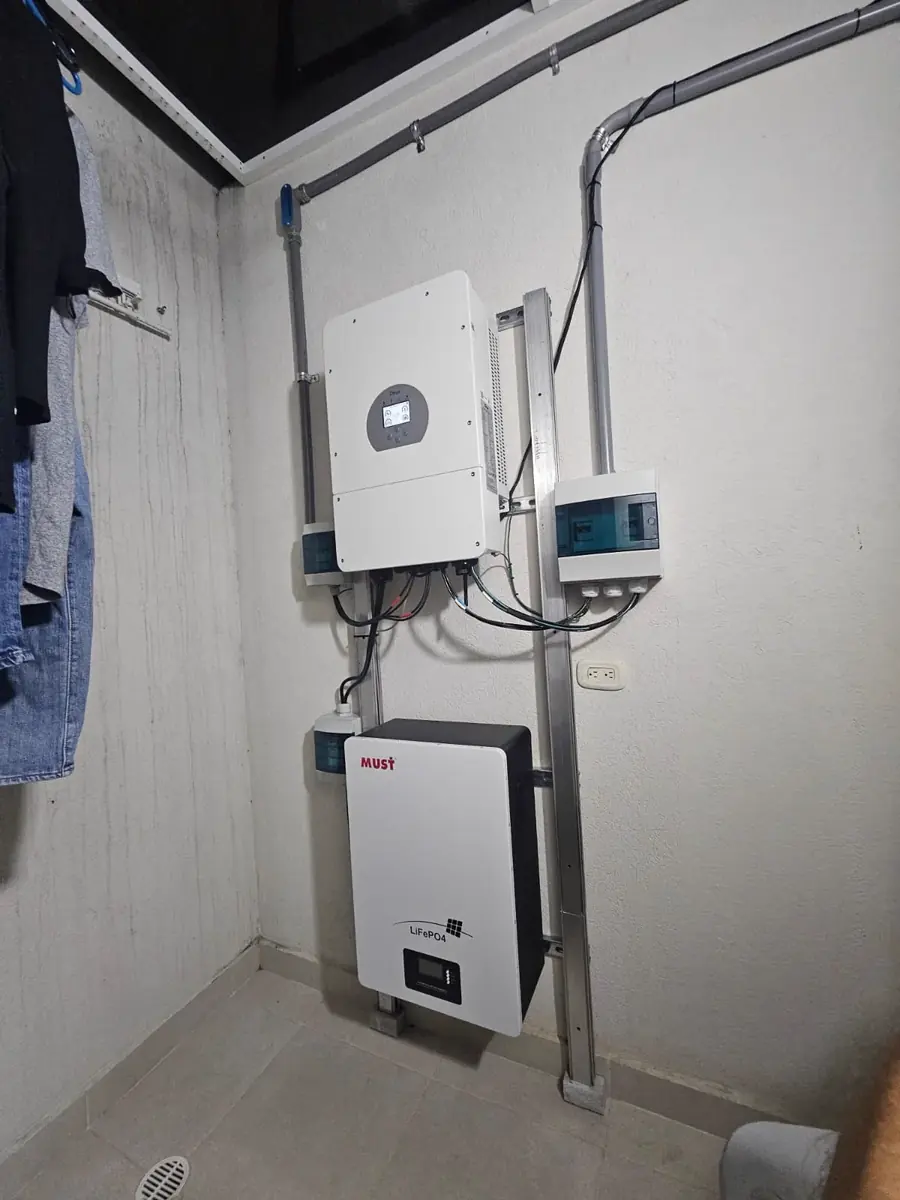
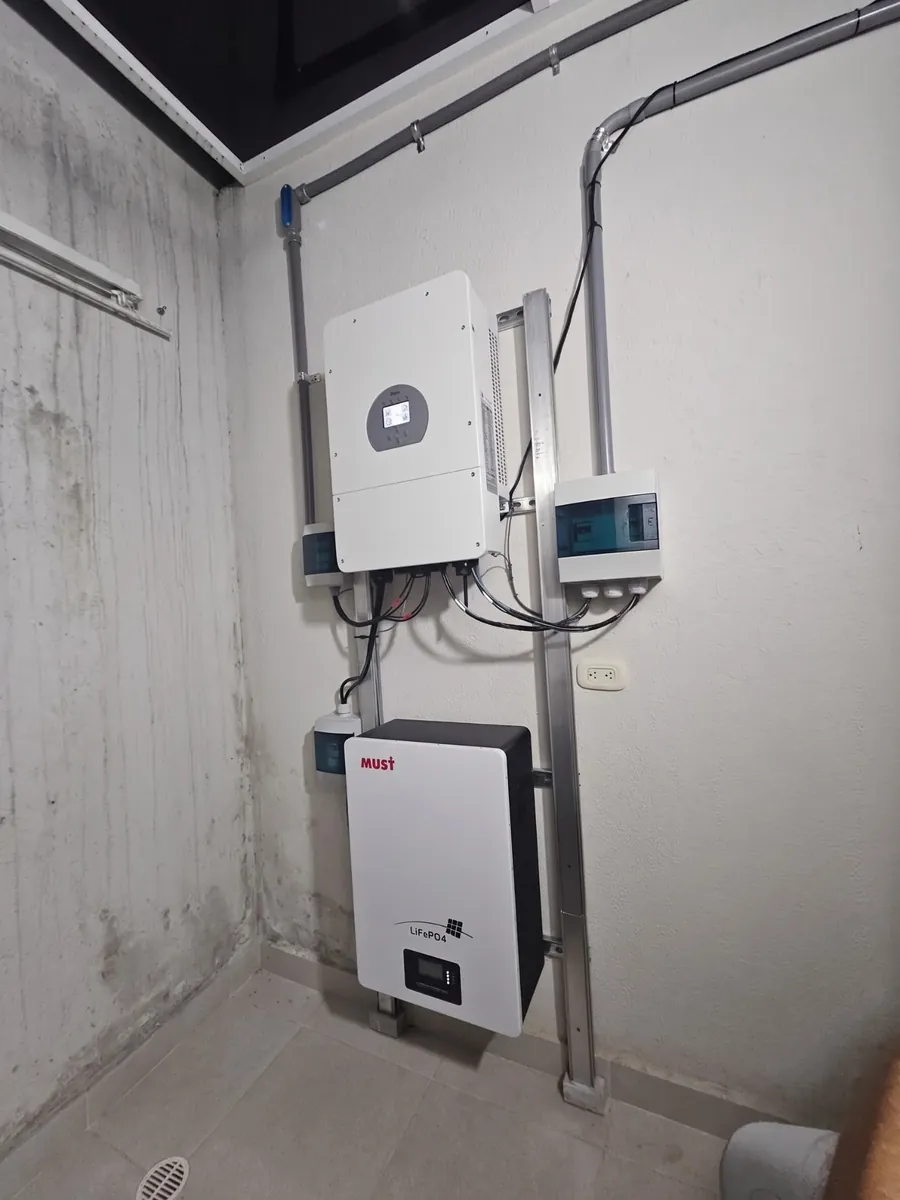
little changes in the landing (img, text, position)

diff --git a/src/data/contenido.js b/src/data/contenido.js
@@ -15,6 +15,7 @@ export const SERVICIOS_FORMULARIO = [
   'Mantenimiento',
   'Puntos de carga para vehículos eléctricos',
   'Trámites y beneficios tributarios',
+  'Venta de equipos para tu proyecto',
 ]
 
 /** Arma el mensaje de WhatsApp del formulario: solo usa lo que la persona escribió (ISO/IEC 27701, minimización de datos). */
@@ -128,12 +129,12 @@ export const pasos = [
 
 // Historia de la escena 3D: cada paso ocupa una parte del recorrido de scroll.
 export const historia = [
-  { icono: 'light_mode', titulo: 'Llega el sol', texto: 'La radiación solar cae sobre los módulos instalados en tu cubierta.' },
+  { icono: 'light_mode', titulo: 'Llega el sol', texto: 'La radiación solar incide sobre los módulos instalados en tu cubierta.' },
   { icono: 'solar_power', titulo: 'El panel la convierte', texto: 'Las celdas fotovoltaicas transforman la luz en electricidad.' },
   {
     icono: 'electrical_services',
     titulo: 'El inversor la adapta',
-    texto: 'El inversor deja la energía lista para los equipos de tu hogar, empresa o institución.',
+    texto: 'El inversor transforma la energía proveniente de los paneles para ser inyectada a los equipos de tu hogar, empresa o institución, y verter los excedentes a la red eléctrica.',
   },
   { icono: 'home', titulo: 'Tu casa se enciende', texto: 'Usas energía limpia y dependes menos de la red eléctrica.' },
 ]
@@ -197,10 +198,22 @@ export const cinta = [
   'Mantenimiento preventivo y correctivo',
 ]
 
-// Infografías de "Cómo funciona": [clave, pestaña, título, frase, foto, ancho, alto, alt]
+// Infografías de equipos (página Servicios), agrupadas en Fotovoltaico y Térmico: [clave, pestaña, título, frase, foto, ancho, alto, alt]
 export const infografias = [
   {
+    clave: 'hibrido',
+    grupo: 'Fotovoltaico',
+    pestana: 'Sistema híbrido',
+    titulo: 'Sistema solar híbrido',
+    texto: 'Genera, almacena y aprovecha tu propia energía, de día y de noche.',
+    foto: '/img/infografia-sistema-hibrido.webp',
+    ancho: 1448,
+    alto: 1086,
+    alt: 'Sistema solar híbrido instalado en pared: inversor, batería y cargador eléctrico',
+  },
+  {
     clave: 'presurizado',
+    grupo: 'Térmico',
     pestana: 'Calentador presurizado',
     titulo: 'Calentador solar presurizado',
     texto: 'Agua caliente en tu hogar, de forma eficiente y segura.',
@@ -211,6 +224,7 @@ export const infografias = [
   },
   {
     clave: 'mariposa',
+    grupo: 'Térmico',
     pestana: 'Colector mariposa',
     titulo: 'Colector tipo mariposa',
     texto: 'La forma más eficiente de calentar tu piscina o jacuzzi con energía del sol.',
@@ -218,15 +232,5 @@ export const infografias = [
     ancho: 1070,
     alto: 1240,
     alt: 'Infografía del colector tipo mariposa: qué es, cómo funciona y qué lo compone',
-  },
-  {
-    clave: 'hibrido',
-    pestana: 'Sistema híbrido',
-    titulo: 'Sistema solar híbrido',
-    texto: 'Genera, almacena y aprovecha tu propia energía, de día y de noche.',
-    foto: '/img/infografia-sistema-hibrido.webp',
-    ancho: 1448,
-    alto: 1086,
-    alt: 'Sistema solar híbrido instalado en pared: inversor, batería y cargador eléctrico',
   },
 ]

diff --git a/src/components/Infografias.jsx b/src/components/Infografias.jsx
@@ -1,4 +1,4 @@
-import { useEffect, useRef, useState } from 'react'
+import { Fragment, useEffect, useRef, useState } from 'react'
 import { animate } from 'animejs/animation'
 import { sinMovimiento } from '../movimiento.js'
 import { Chip } from './Comunes.jsx'
@@ -114,24 +114,30 @@ export default function Infografias() {
         <div className="infografias__texto">
           <Chip>Nuestros equipos</Chip>
           <h2 data-titulo>
-            Así funciona cada <em className="acento">sistema</em>
+            Equipos para cada <em className="acento">sistema</em>
           </h2>
           <div className="pestanas" role="tablist" aria-label="Tipo de sistema">
-            {infografias.map((i) => (
-              <button
-                key={i.clave}
-                type="button"
-                role="tab"
-                id={`info-tab-${i.clave}`}
-                aria-selected={clave === i.clave}
-                aria-controls="info-panel"
-                tabIndex={clave === i.clave ? 0 : -1}
-                onKeyDown={teclas}
-                className="pestanas__boton"
-                onClick={() => setClave(i.clave)}
-              >
-                <span>{i.pestana}</span>
-              </button>
+            {infografias.map((i, k) => (
+              <Fragment key={i.clave}>
+                {(k === 0 || infografias[k - 1].grupo !== i.grupo) && (
+                  <span className="pestanas__grupo" role="presentation">
+                    {i.grupo}
+                  </span>
+                )}
+                <button
+                  type="button"
+                  role="tab"
+                  id={`info-tab-${i.clave}`}
+                  aria-selected={clave === i.clave}
+                  aria-controls="info-panel"
+                  tabIndex={clave === i.clave ? 0 : -1}
+                  onKeyDown={teclas}
+                  className="pestanas__boton"
+                  onClick={() => setClave(i.clave)}
+                >
+                  <span>{i.pestana}</span>
+                </button>
+              </Fragment>
             ))}
           </div>
           <p ref={frase} className="infografias__frase" aria-live="polite">

diff --git a/src/paginas.jsx b/src/paginas.jsx
@@ -13,7 +13,8 @@ import Trabajos from './components/Trabajos.jsx'
 import Beneficios from './components/Beneficios.jsx'
 import Contacto from './components/Contacto.jsx'
 import Privacidad from './components/Privacidad.jsx'
-import { LlamadaExperto } from './components/Comunes.jsx'
+import { LlamadaExperto } from './components/Comunes.jsx'
+
 // Cada página trae sus estilos desde src/styles/<página>.css; lo que se comparte está en src/styles/base.css (ver main.jsx).
 import './styles/inicio.css'
 import './styles/servicios.css'
@@ -39,13 +40,13 @@ export const CONTENIDO_DE_PAGINA = {
     <>
       <Gestiones />
       <Servicios />
+      <Infografias />
     </>
   ),
   'como-funciona': () => (
     <>
       <Recorrido />
       <Proceso />
-      <Infografias />
       <LlamadaExperto
         titulo="¿Quieres ver cómo quedaría en tu casa o empresa?"
         texto="Un experto de Soltherra te explica el proceso paso a paso y resuelve tus dudas."

diff --git a/src/styles/como-funciona.css b/src/styles/como-funciona.css
@@ -646,3 +646,13 @@
     display: none;
   }
 }
+
+.pestanas__grupo {
+  flex-basis: 100%;
+  margin: 8px 0 0;
+  font-weight: 700;
+  font-size: 0.8rem;
+  letter-spacing: 0.08em;
+  text-transform: uppercase;
+  color: var(--texto-suave);
+}

diff --git a/src/styles/base.css b/src/styles/base.css
@@ -739,7 +739,7 @@ a {
       text-decoration: underline;
       text-underline-offset: 4px;
       &:hover {
-        color: var(--piedra);
+        color: var(--sol);
         text-decoration: underline;
       }
     }

diff --git a/public/img/PROVENANCE.md b/public/img/PROVENANCE.md
@@ -37,3 +37,14 @@ Fotos de ejemplo de Unsplash (licencia Unsplash), convertidas a WebP el 2026-10-
 - `public/img/trabajos/`: fotos de la galería «Nuestros trabajos», en una versión más liviana (≈ 900 px de ancho) que la de las secciones. Se listan en `src/data/imagenes/trabajos.json`.
 
 Solo se guardan las imágenes que el código usa. Antes de añadir una, se registra en el `.json` de `src/data/imagenes/` que le corresponde.
+
+## Galería «Nuestros trabajos»: fotovoltaico (agregadas el 2026-11-07)
+
+Fotos de obras de Soltherra entregadas por el equipo y convertidas a WebP (calidad 80, 900 px de ancho en vertical y 1000 px en horizontal), en `public/img/trabajos/`:
+
+| Archivo | Qué muestra |
+|---|---|
+| fv-inversor-huawei-tablero-dc.webp | Inversor Huawei con tablero DC y canalización |
+| fv-inversor-huawei-senalizado.webp | Inversor Huawei señalizado con tablero de protecciones DC |
+| fv-inversor-diagrama-unifilar.webp | Inversor con el diagrama unifilar del sistema |
+| fv-inversor-bateria-cargador.webp | Inversor, batería y cargador de vehículo eléctrico con tablero |
